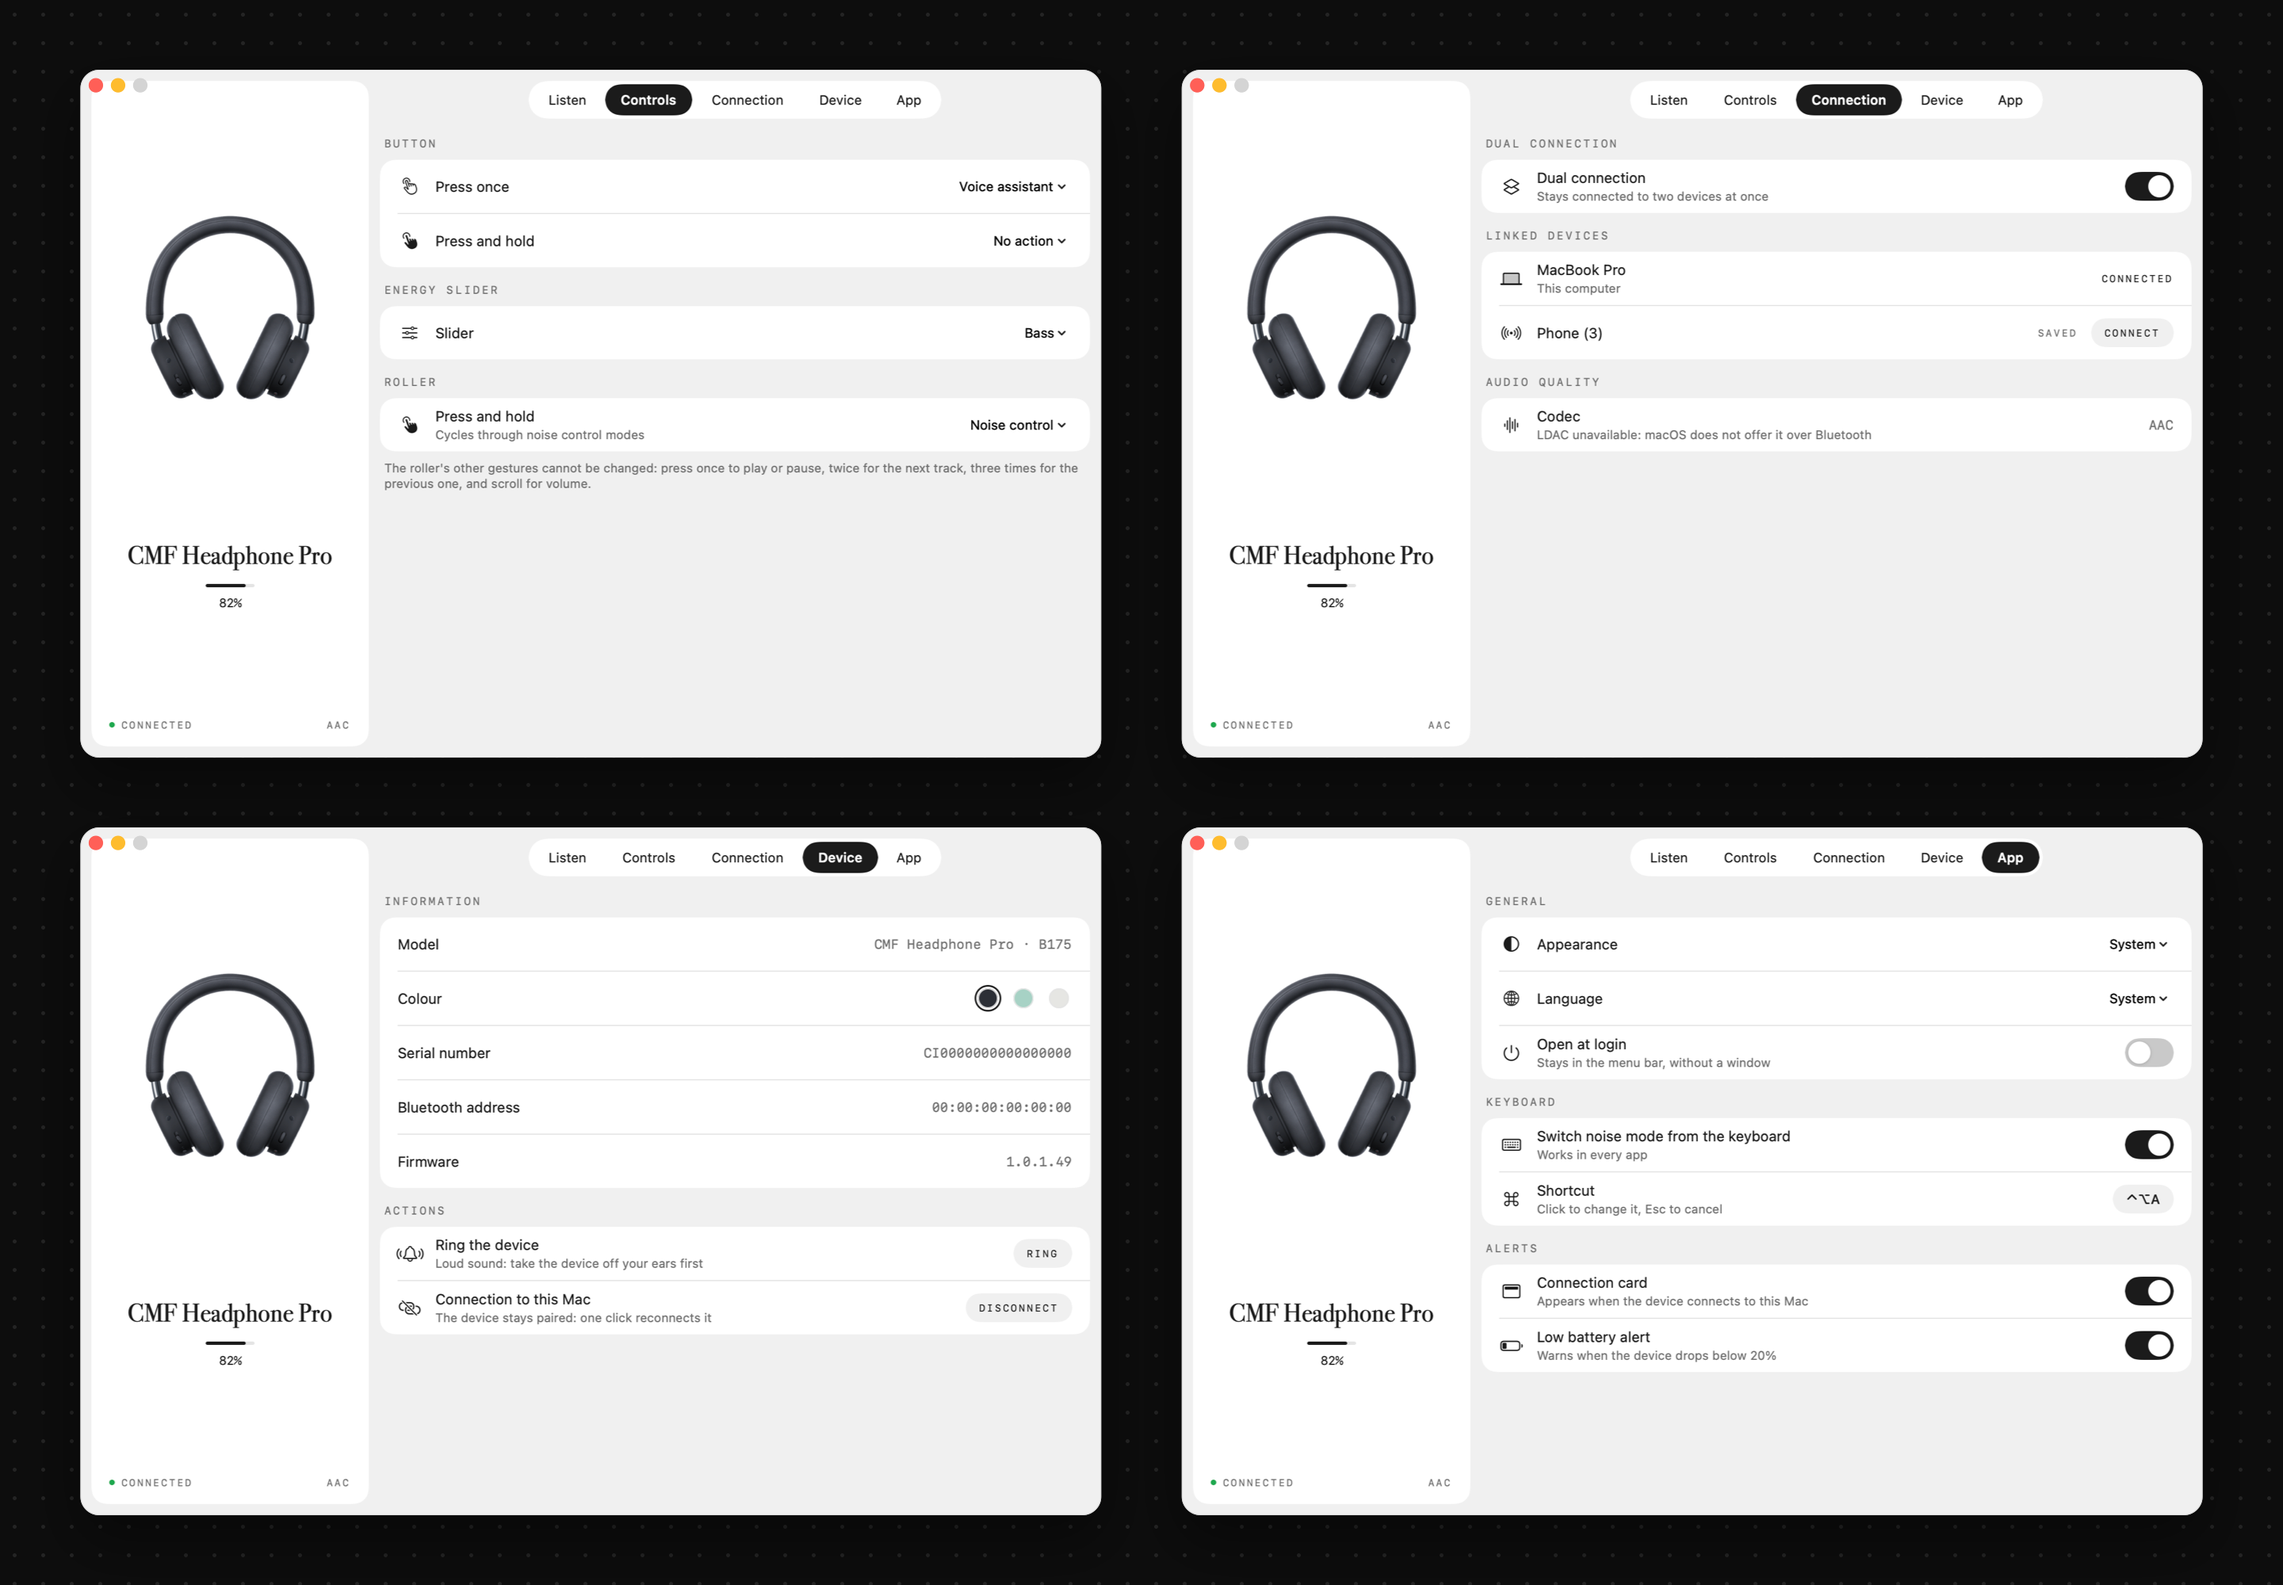
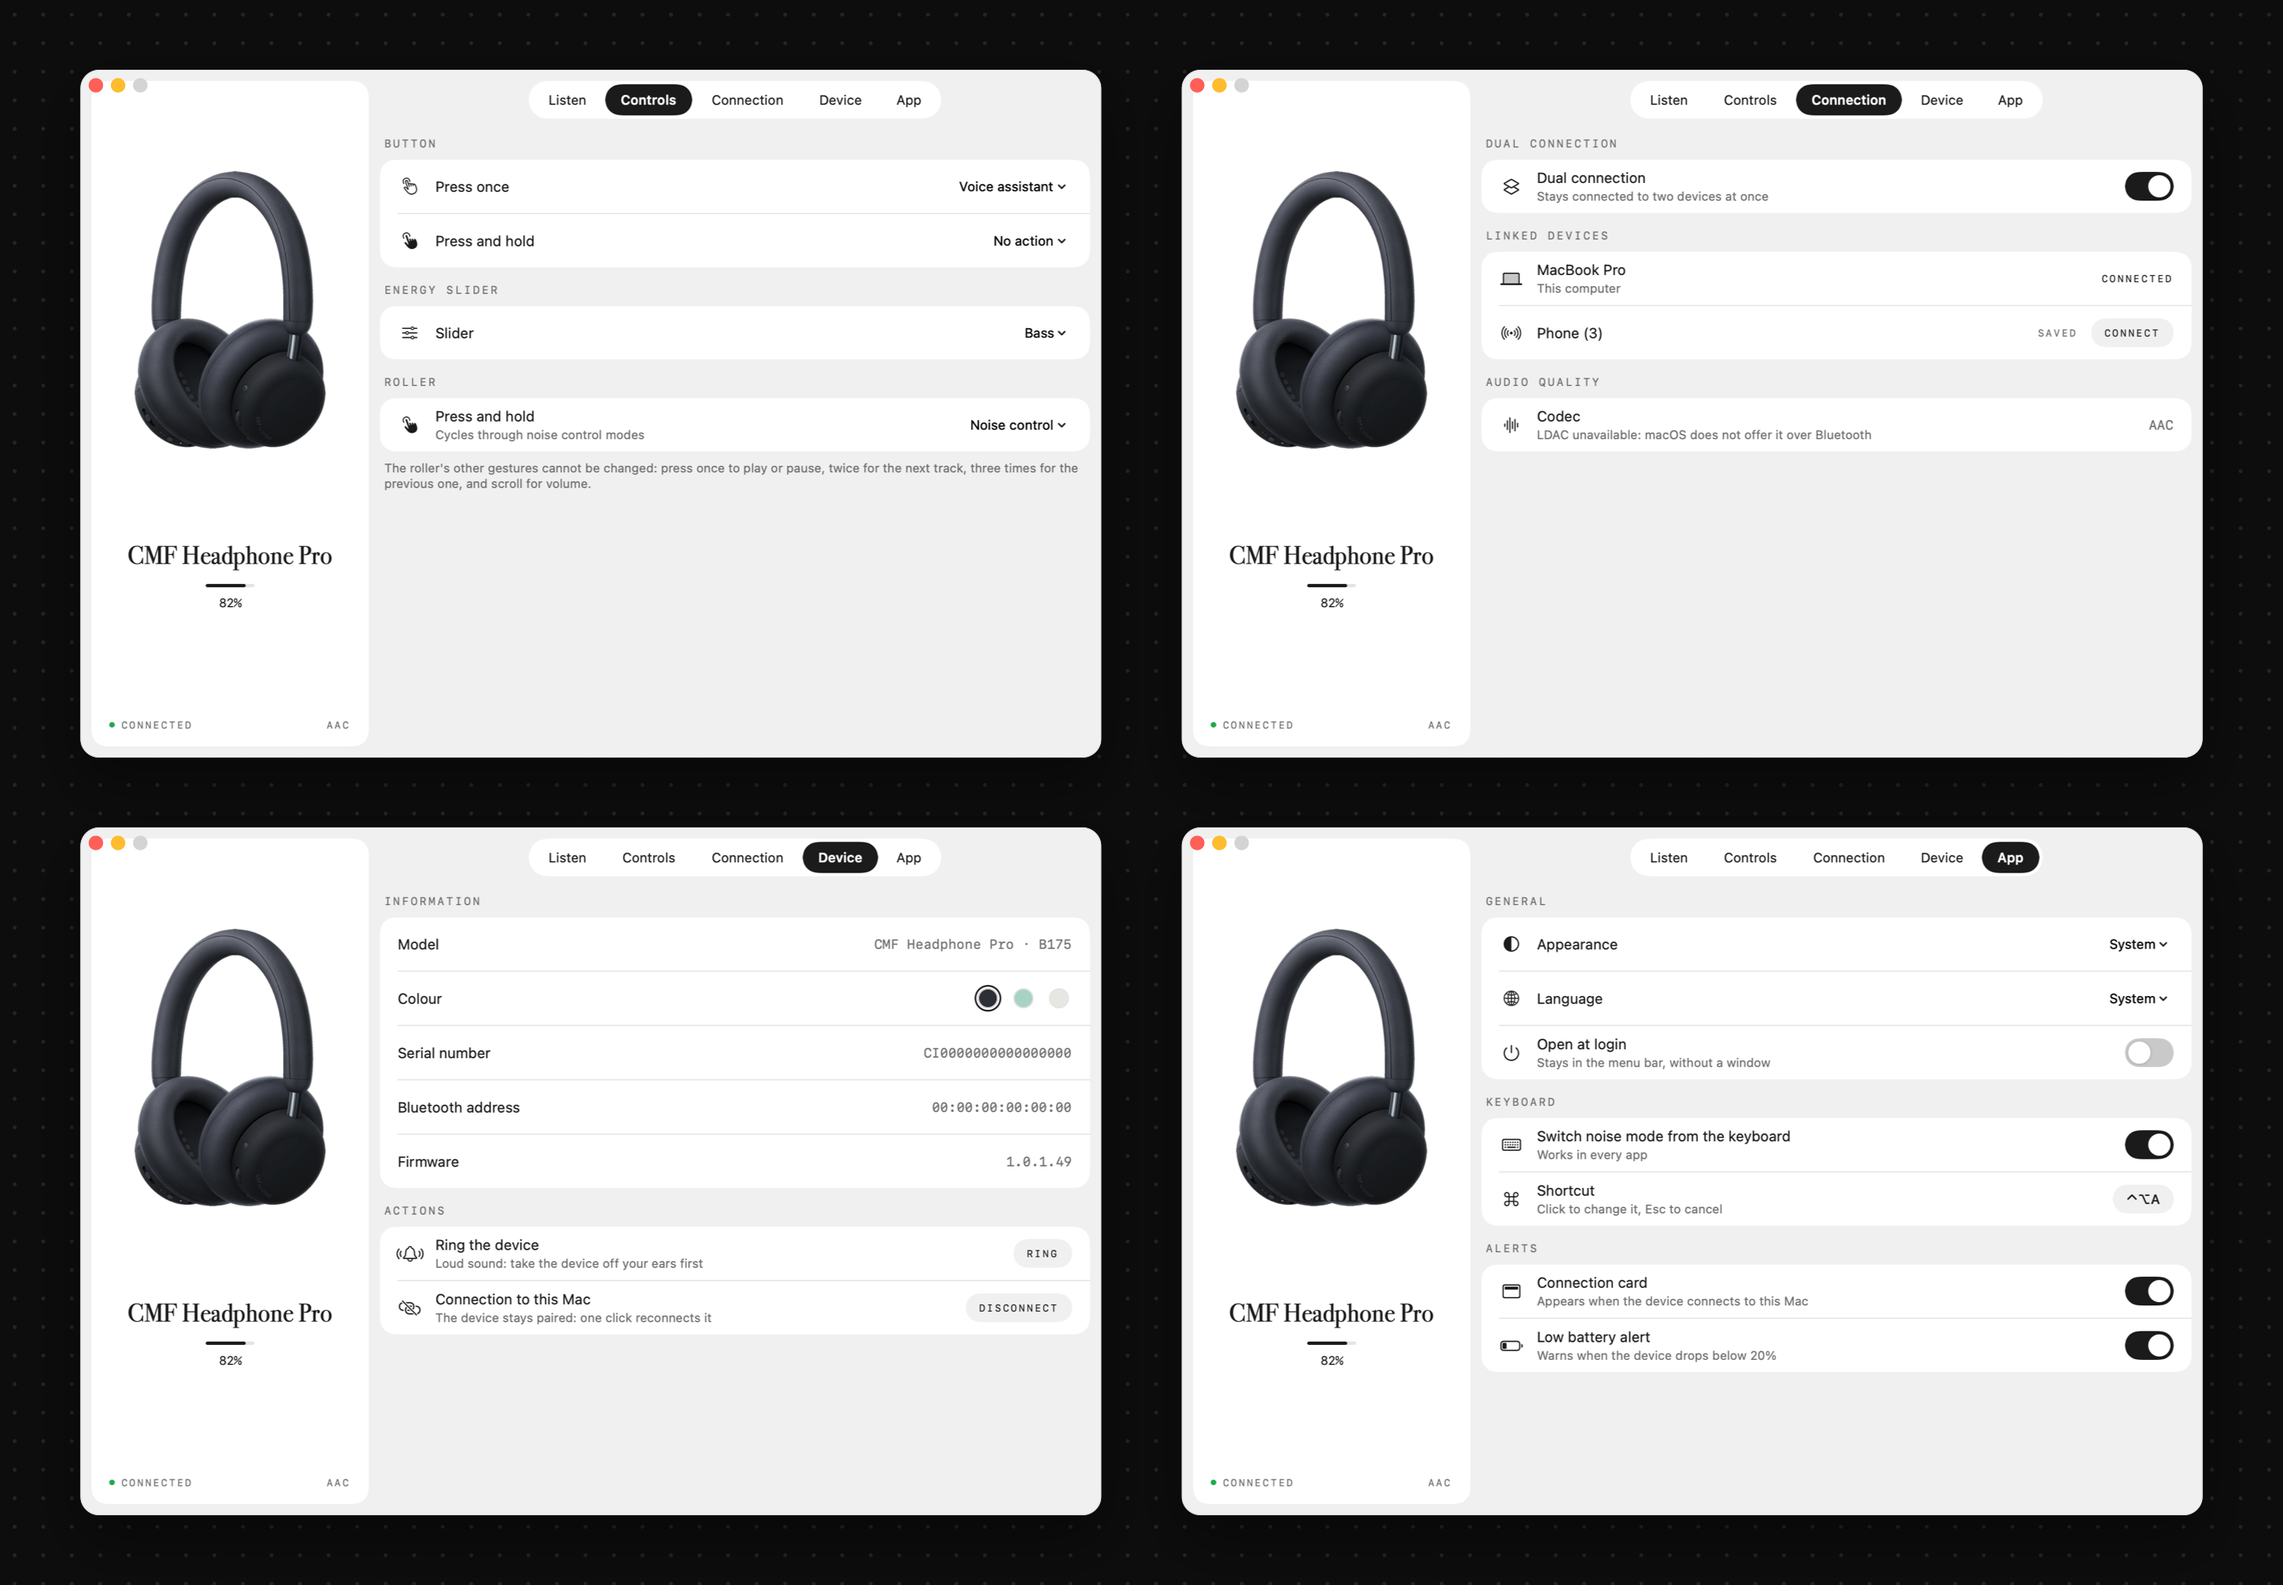
Visuels du README avec la vue de trois quarts du casque

diff --git a/README.fr.md b/README.fr.md
@@ -18,7 +18,7 @@ Hors de la fenêtre : une carte quand l'appareil se connecte, le panneau de la b
 
 ![Carte de connexion, panneau de la barre des menus et confirmations](docs/presentation-barre-des-menus.png)
 
-Ces visuels sont fabriqués à partir de l'app elle-même par `tools/make-screens.sh`, telle qu'on l'obtient après `tools/install.sh`.
+Ces visuels sont fabriqués à partir de l'app elle-même par `tools/make-screens.sh`. La vue de trois quarts du casque vient de mes propres fichiers ; installée depuis le dépôt, l'app montre la vue de face à sa place.
 
 ## Installation
 

diff --git a/README.md b/README.md
@@ -18,7 +18,7 @@ Outside the window: a card when the device connects, the menu bar panel, and not
 
 ![Connection card, menu bar panel and notices](docs/presentation-barre-des-menus.png)
 
-These pictures are made from the app itself by `tools/make-screens.sh`, as you get it after `tools/install.sh`.
+These pictures are made from the app itself by `tools/make-screens.sh`. The three-quarter view of the headset comes from my own files; installed from the repository, the app shows the front view in its place.
 
 ## Install
 
